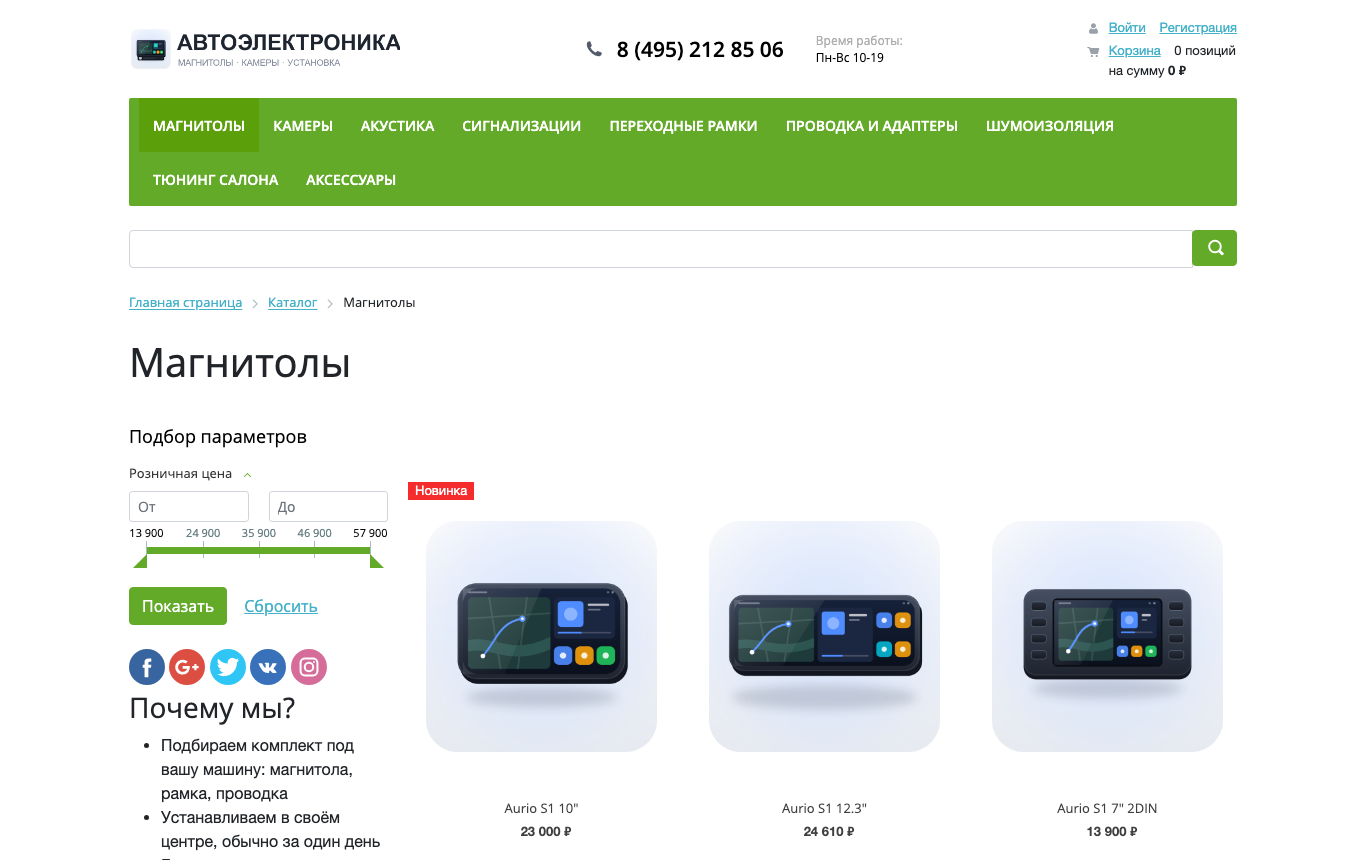
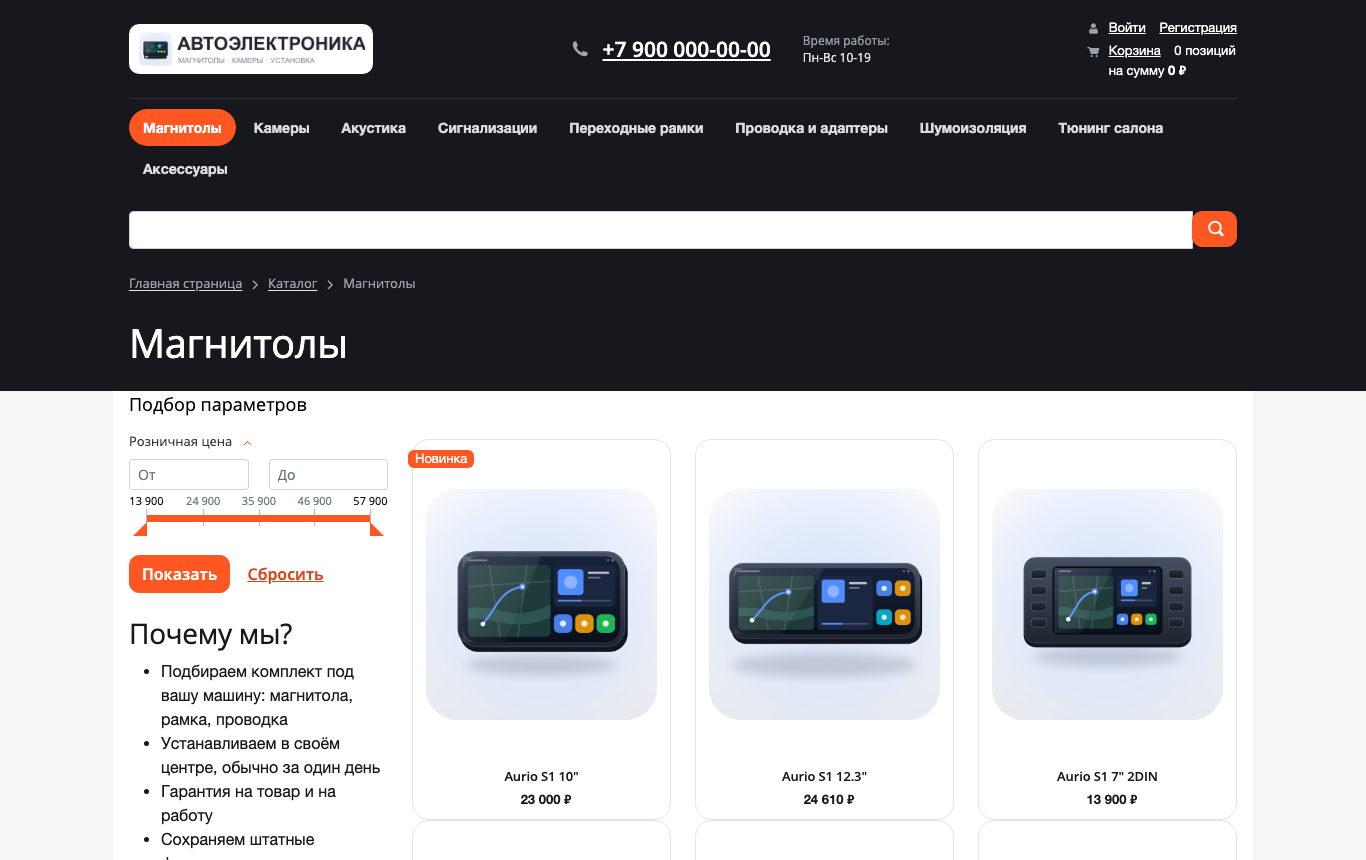
Фирменный стиль витрины: тема через init.php, свой шаблон меню mvp_top, подвал без соцсетей демо

diff --git a/src/local/templates/.default/mvp-theme.css b/src/local/templates/.default/mvp-theme.css
@@ -1,0 +1,120 @@
+/* Фирменный стиль витрины «Автоэлектроника»: графитовые шапка и подвал, оранжевый акцент.
+   Шаблон eshop_bootstrap_v4 не правим: переопределяем его переменные темы и пару блоков. */
+
+:root,
+body.bx-theme-green,
+body .bx-green,
+body .bx-theme-green {
+	--mvp-ink: #16181d;
+	--mvp-ink-2: #23262d;
+	--mvp-muted: #6b7079;
+	--mvp-line: #e3e5e9;
+	--mvp-bg: #f6f6f4;
+	--mvp-accent: #ff5722;
+	--mvp-accent-hover: #e8491a;
+
+	--primary: var(--mvp-accent);
+	--theme-color-primary: var(--mvp-accent);
+	--theme-color-second: var(--mvp-accent-hover);
+	--theme-color-light: #ffd9cc;
+	--theme-b-link: #d9461a;
+	--theme-b-link-hover: var(--mvp-accent);
+	--theme-b-bg-primary: var(--mvp-accent);
+	--theme-b-bd-primary: var(--mvp-accent);
+	--theme-b-sd-primary: rgba(255, 87, 34, .35);
+	--theme-b-bg-primary-hover: var(--mvp-accent-hover);
+	--theme-b-bd-primary-hover: var(--mvp-accent-hover);
+	--theme-b-bg-primary-active: var(--mvp-accent-hover);
+	--theme-b-bd-primary-active: #cf3f13;
+	--theme-b-bg-primary-disabled: #f2a189;
+	--theme-b-bd-primary-disabled: #f2a189;
+}
+
+body.bx-background-image { background: var(--mvp-bg); color: var(--mvp-ink); }
+h1, h2, h3, .bx-block-title { color: var(--mvp-ink); letter-spacing: -.01em; }
+.btn { border-radius: 10px; font-weight: 600; }
+
+/* шапка */
+.bx-header { background: var(--mvp-ink); color: #fff; padding-bottom: 4px; }
+.bx-header .bx-header-section { background: transparent; }
+.bx-header a { color: #fff; }
+.bx-header .bx-header-logo { background: transparent; }
+.bx-header .bx-header-phone-number, .bx-header .bx-header-phone-number a { color: #fff; }
+.bx-header .bx-worktime-title { color: #9aa0aa; }
+.bx-header .bx-worktime-schedule { color: #e6e7ea; }
+.bx-header .bx-header-phone-icon { filter: invert(1); }
+.bx-header #pagetitle { color: #fff; margin-bottom: 18px; }
+.bx-header .bx-breadcrumb-item-text { color: #9aa0aa; }
+.bx-header .bx-breadcrumb-item-link { color: #e6e7ea; }
+.bx-header .bx-searchtitle .bx-input-group .bx-form-control {
+	background: var(--mvp-ink-2); border-color: #343842; color: #fff; border-radius: 10px 0 0 10px;
+}
+.bx-header .bx-menu-button-mobile { display: none; }
+
+/* логотип рисован тёмным по светлому: в графитовой шапке даём ему светлую подложку */
+.bx-header .bx-logo-block img { background: #fff; border-radius: 10px; padding: 4px 8px; }
+
+/* меню каталога: шаблон mvp_top */
+.mvp-nav-row { display: block !important; }
+.mvp-nav { border-top: 1px solid #2c3038; padding-top: 10px; }
+.mvp-nav-list { display: flex; flex-wrap: wrap; gap: 4px; list-style: none; margin: 0; padding: 0; }
+.mvp-nav-item { position: relative; }
+.mvp-nav-link {
+	display: block; padding: 8px 14px; border-radius: 999px;
+	color: #d9dbe0 !important; font-size: 14px; font-weight: 600; text-decoration: none !important;
+	transition: background .15s, color .15s;
+}
+.mvp-nav-link:hover { background: var(--mvp-ink-2); color: #fff !important; }
+.mvp-nav-item.is-active > .mvp-nav-link { background: var(--mvp-accent); color: #fff !important; }
+.mvp-nav-sub {
+	display: none; position: absolute; top: 100%; left: 0; z-index: 50; min-width: 220px;
+	list-style: none; margin: 6px 0 0; padding: 8px; background: #fff; border-radius: 12px;
+	box-shadow: 0 12px 32px rgba(0, 0, 0, .18);
+}
+.mvp-nav-item.has-children:hover .mvp-nav-sub,
+.mvp-nav-item.has-children:focus-within .mvp-nav-sub { display: block; }
+.mvp-nav-sub a { display: block; padding: 8px 10px; border-radius: 8px; color: var(--mvp-ink) !important; }
+.mvp-nav-sub a:hover, .mvp-nav-sub a.is-active { background: var(--mvp-bg); }
+
+@media (max-width: 767.98px) {
+	.mvp-nav-list { flex-wrap: nowrap; overflow-x: auto; -webkit-overflow-scrolling: touch; padding-bottom: 6px; }
+	.mvp-nav-link { white-space: nowrap; background: var(--mvp-ink-2); }
+	.mvp-nav-sub { display: none !important; }
+}
+
+/* блок-приветствие на главной */
+.mvp-hero { background: var(--mvp-ink) !important; color: #e6e7ea; border-radius: 20px !important; }
+.mvp-hero h2 { color: #fff; }
+
+/* карточки товаров */
+.product-item {
+	background: #fff; border: 1px solid var(--mvp-line); border-radius: 16px;
+	transition: box-shadow .2s, transform .2s;
+}
+.product-item:hover { box-shadow: 0 10px 28px rgba(22, 24, 29, .10); transform: translateY(-2px); }
+.product-item-title a { color: var(--mvp-ink); font-weight: 600; }
+.product-item-price-current, .product-item-detail-price-current { color: var(--mvp-ink) !important; font-weight: 700; }
+body.bx-theme-green .catalog-block-header { border-color: var(--mvp-accent); }
+.product-item-label-text span { background: var(--mvp-accent) !important; border-radius: 6px; }
+
+/* боковая колонка и новости */
+.sidebar-icon { background-color: var(--mvp-ink); }
+.news-list-item .card, .news-list-item { border-radius: 16px; }
+.news-list-item .btn-primary { background: var(--mvp-ink); border-color: var(--mvp-ink); }
+
+/* подвал */
+.bx-footer .bx-footer-bg { background: var(--mvp-ink-2); }
+.bx-footer .bg-dark { background: var(--mvp-ink) !important; }
+.bx-footer .bg-secondary { background: #0f1115 !important; }
+.bx-footer div[style*="#eaeaeb"] { background: transparent !important; padding: 0 !important; }
+.bx-footer a { color: #e6e7ea; }
+.bx-footer a:hover { color: var(--mvp-accent); }
+
+.mvp-perks { display: flex; flex-wrap: wrap; gap: 10px 28px; justify-content: center; padding: 18px 0; margin: 0; list-style: none; }
+.mvp-perks li { color: #e6e7ea; font-weight: 600; font-size: 14px; }
+.mvp-perks li::before { content: ""; display: inline-block; width: 8px; height: 8px; margin-right: 10px; border-radius: 50%; background: var(--mvp-accent); vertical-align: middle; }
+
+.mvp-cta { background: var(--mvp-ink-2); border-radius: 16px; padding: 20px; }
+.mvp-cta-title { color: #fff; font-size: 20px; font-weight: 700; margin-bottom: 8px; }
+.mvp-cta-text { color: #b8bcc4; font-size: 14px; margin-bottom: 14px; }
+.mvp-cta-phone { color: #fff !important; font-size: 20px; font-weight: 700; }

diff --git a/src/local/tools/apply_theme.php b/src/local/tools/apply_theme.php
@@ -36,7 +36,7 @@ HTML);
 $index = file_get_contents("$root/index.php");
 $index = preg_replace('/\$APPLICATION->SetTitle\([^;]*\);/u', '$APPLICATION->SetTitle("Автоэлектроника с установкой");', $index, 1);
 $hero = <<<'HTML'
-<div class="mb-5 p-4 rounded" style="background:#f3f5f9;display:flex;gap:28px;align-items:center;flex-wrap:wrap">
+<div class="mb-5 p-4 rounded mvp-hero" style="background:#f3f5f9;display:flex;gap:28px;align-items:center;flex-wrap:wrap">
 	<img src="/upload/mvpcode/hero.png" alt="Магнитола на Android в салоне" style="width:260px;max-width:100%;border-radius:18px">
 	<div style="flex:1;min-width:240px">
 		<h2 class="mb-3">Магнитолы на Android с установкой под вашу машину</h2>
@@ -105,6 +105,42 @@ $aboutPage = preg_replace('#<p>Мы рады приветствовать.*?од
 	<p>Каждый заказ с сайта попадает в журнал заявок модуля mvpcode.leads вместе с источником рекламы (utm_source) и уходит сделкой в Битрикс24. Если портал недоступен, заявка ждёт в очереди и отправляется повторно.</p>
 HTML, $aboutPage);
 file_put_contents("$root/about/index.php", $aboutPage);
+
+// главная, собранная раньше: блоку-приветствию нужен класс для фирменного стиля
+$index = file_get_contents("$root/index.php");
+file_put_contents("$root/index.php", str_replace('class="mb-5 p-4 rounded" style', 'class="mb-5 p-4 rounded mvp-hero" style', $index));
+
+// шапка: меню каталога на свой шаблон mvp_top (/local/templates/.default/components/bitrix/menu/mvp_top), видно и на телефоне
+$tplHeader = "$root/bitrix/templates/eshop_bootstrap_v4/header.php";
+$h = file_get_contents($tplHeader);
+$h = preg_replace('/("bitrix:menu",\s*)"bootstrap_v4"/', '$1"mvp_top"', $h, 1);
+$h = str_replace('"COMPONENT_TEMPLATE" => "bootstrap_v4"', '"COMPONENT_TEMPLATE" => "mvp_top"', $h);
+$h = str_replace('<div class="row mb-4 d-none d-md-block">', '<div class="row mb-4 mvp-nav-row">', $h);
+file_put_contents($tplHeader, $h);
+
+// подвал: вместо кнопок соцсетей — строка преимуществ, вместо подписки — запись на установку
+file_put_contents("$root/include/socnet_footer.php", <<<'HTML'
+<ul class="mvp-perks">
+	<li>Подбор комплекта под вашу машину</li>
+	<li>Установка в день обращения</li>
+	<li>Гарантия на товар и работу</li>
+	<li>Оплата после проверки</li>
+</ul>
+HTML);
+file_put_contents("$root/include/sender.php", <<<'HTML'
+<div class="mvp-cta">
+	<div class="mvp-cta-title">Запись на установку</div>
+	<div class="mvp-cta-text">Назовите марку, модель и год машины. Подберём комплект и время установки.</div>
+	<a class="mvp-cta-phone" href="tel:+79000000000">+7 900 000-00-00</a>
+</div>
+HTML);
+// иконки соцсетей из демо выводит одна включаемая область: в каталоге и на главной
+file_put_contents("$root/include/socnet_sidebar.php", '');
+// боковая колонка: блок «Мы в соцсетях» (Facebook, Google+, Twitter из демо) убираем
+$side = file_get_contents("$root/sect_sidebar.php");
+file_put_contents("$root/sect_sidebar.php", preg_replace('#<div class="mb-5">\s*<h3>Мы в соцсетях</h3>.*?</div>\s*#su', '', $side, 1));
+// демо-телефон Битрикса похож на настоящий московский номер — ставим заведомо фиктивный
+file_put_contents("$root/include/telephone.php", '<a href="tel:+79000000000">+7 900 000-00-00</a>');
 
 // SEO-шаблоны каталога (наследуемые свойства) — там «от магазина Одежда+» в title, description и alt картинок
 $seo = [

diff --git a/src/local/templates/.default/components/bitrix/menu/mvp_top/template.php b/src/local/templates/.default/components/bitrix/menu/mvp_top/template.php
@@ -1,0 +1,31 @@
+<?php
+if (!defined('B_PROLOG_INCLUDED') || B_PROLOG_INCLUDED !== true) die();
+/** @var array $arResult */
+if (empty($arResult)) return;
+
+// плоский список bitrix:menu → дерево первого и второго уровня
+$tree = [];
+foreach ($arResult as $item) {
+    if ($item['DEPTH_LEVEL'] == 1) {
+        $tree[] = $item + ['CHILDREN' => []];
+    } elseif ($item['DEPTH_LEVEL'] == 2 && $tree) {
+        $tree[array_key_last($tree)]['CHILDREN'][] = $item;
+    }
+}
+?>
+<nav class="mvp-nav" aria-label="Каталог">
+    <ul class="mvp-nav-list">
+        <?php foreach ($tree as $item): ?>
+            <li class="mvp-nav-item<?= $item['CHILDREN'] ? ' has-children' : '' ?><?= $item['SELECTED'] ? ' is-active' : '' ?>">
+                <a class="mvp-nav-link" href="<?= htmlspecialcharsbx($item['LINK']) ?>"><?= htmlspecialcharsbx($item['TEXT']) ?></a>
+                <?php if ($item['CHILDREN']): ?>
+                    <ul class="mvp-nav-sub">
+                        <?php foreach ($item['CHILDREN'] as $child): ?>
+                            <li><a href="<?= htmlspecialcharsbx($child['LINK']) ?>"<?= $child['SELECTED'] ? ' class="is-active"' : '' ?>><?= htmlspecialcharsbx($child['TEXT']) ?></a></li>
+                        <?php endforeach ?>
+                    </ul>
+                <?php endif ?>
+            </li>
+        <?php endforeach ?>
+    </ul>
+</nav>

diff --git a/src/local/php_interface/init.php b/src/local/php_interface/init.php
@@ -1,0 +1,11 @@
+<?php
+use Bitrix\Main\EventManager;
+use Bitrix\Main\Page\Asset;
+
+// фирменный стиль витрины поверх шаблона eshop_bootstrap_v4: сам шаблон не правим, чтобы он обновлялся штатно
+EventManager::getInstance()->addEventHandler('main', 'OnBeforeProlog', function () {
+    if (defined('ADMIN_SECTION') && ADMIN_SECTION === true) {
+        return;
+    }
+    Asset::getInstance()->addCss('/local/templates/.default/mvp-theme.css');
+});

diff --git a/README.md b/README.md
@@ -47,6 +47,13 @@ docker compose exec php php /var/www/html/local/tools/test_leads.php      # те
 Дистрибутив Битрикса (пробная версия) ставится в `www/` мастером установки и в репозиторий не входит.
 `import_autoelectronics.php` и `apply_theme.php` превращают демо-магазин одежды в магазин автоэлектроники: 9 разделов, 60 товаров со своими иллюстрациями, логотип, SEO-шаблоны инфоблока.
 
+## Оформление без правки шаблона
+
+Стандартный шаблон `eshop_bootstrap_v4` не копируется и не правится вручную, поэтому обновляется штатно:
+- `local/php_interface/init.php` по событию `OnBeforeProlog` подключает `local/templates/.default/mvp-theme.css`: переменные темы, графитовая шапка и подвал, оранжевый акцент;
+- меню каталога выводит свой шаблон компонента `bitrix:menu` — `local/templates/.default/components/bitrix/menu/mvp_top` (выпадающие подразделы, на телефоне горизонтальная лента);
+- остальные изменения (переключение меню на свой шаблон, подвал, телефоны, SEO-шаблоны) делает скрипт `apply_theme.php`, его можно прогнать на чистой установке.
+
 ## Скриншоты
 
 | | |
